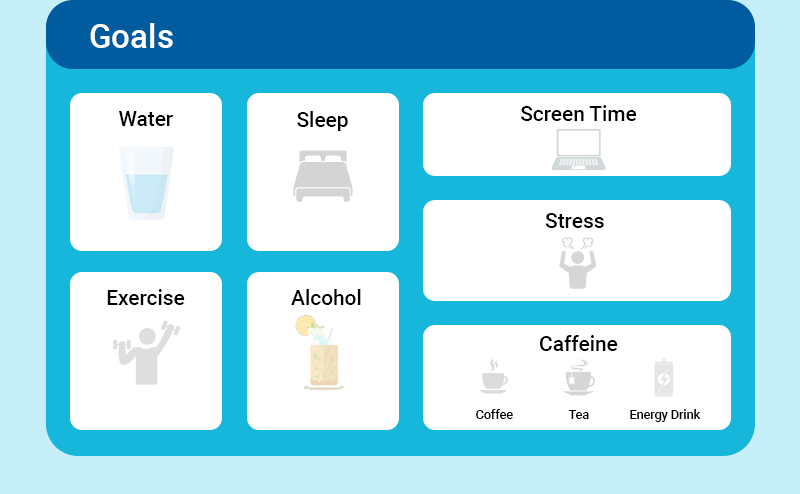
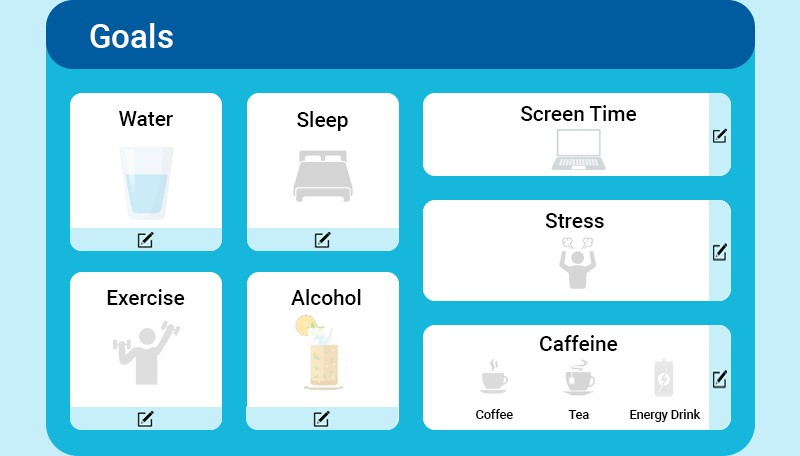
Added a button to goal page from the home page. Created goal editing pages for each factor. Added a button to suggestions page from the goal page.

diff --git a/src/sleepAppGUI/interaction/Page.java b/src/sleepAppGUI/interaction/Page.java
@@ -200,9 +200,15 @@ public class Page
         Page exercise_questions = new Page(19, main, new Color(0xC7EFF9));
         Page exercise_yes = new Page(20, main, new Color(0xC7EFF9));
         Page exercise_no = new Page(21, main, new Color(0xC7EFF9));
-        Page goal_page = new Page(22, main, new Color(0xC7EFF9));
-        Page water_goal = new Page(23, main, new Color(0xC7EFF9));
-        Page suggestions = new Page(24, main, new Color(0xC7EFF9));
+        Page suggestions = new Page(22, main, new Color(0xC7EFF9));
+        Page goal_page = new Page(23, main, new Color(0xC7EFF9));
+        Page water_goal = new Page(24, main, new Color(0xC7EFF9));
+        Page sleep_goal = new Page(25, main, new Color(0xC7EFF9));
+        Page exercise_goal = new Page(26, main, new Color(0xC7EFF9));
+        Page alcohol_goal = new Page(27, main, new Color(0xC7EFF9));
+        Page screen_goal = new Page(28, main, new Color(0xC7EFF9));
+        Page stress_goal = new Page(29, main, new Color(0xC7EFF9));
+        Page caffeine_goal = new Page(30, main, new Color(0xC7EFF9));
 
         Page water_graph = new Page(10, main, new Color(0xC7EFF9));
         Page exercise_graph = new Page(11, main, new Color(0xC7EFF9));
@@ -214,7 +220,7 @@ public class Page
         setUpDailySignIn(main, sign_in_page, home_page);
         setUpSignInPage(main, username_password_initial, more_info_page);
         setUpMoreInfoPage(main, more_info_page, home_page);
-        setUpHomePage(main, home_page, profile_page, sleep_questions, graph_visual);
+        setUpHomePage(main, home_page, profile_page, sleep_questions, graph_visual, goal_page);
         setUpProfilePage(main, profile_page, home_page, edit_profile_page, sign_in_page);
         setUpEditProfilePage(main, edit_profile_page, profile_page);
         setUpSleepQuestionsPage(main, sleep_questions, water_questions);
@@ -231,8 +237,14 @@ public class Page
         setUpExerciseYes(main, exercise_yes, exercise_no, home_page);
         setUpExerciseNo(main, exercise_no, exercise_yes, home_page);
         setUpGraphPage(main,graph_visual, home_page, more_info_page, water_graph, exercise_graph, caffeine_graph, alcohol_graph, screen_graph, stress_graph);
-        setUpGoalPage(main, goal_page, water_goal);
+        setUpGoalPage(main, goal_page, home_page, suggestions, water_goal, sleep_goal, exercise_goal, alcohol_goal, screen_goal, stress_goal, caffeine_goal);
         setUpEditWaterGoal(main, water_goal, goal_page);
+        setUpEditSleepGoal(main, sleep_goal, goal_page);
+        setUpEditExerciseGoal(main, exercise_goal, goal_page);
+        setUpEditAlcoholGoal(main, alcohol_goal, goal_page);
+        setUpEditScreenGoal(main, screen_goal, goal_page);
+        setUpEditStressGoal(main, stress_goal, goal_page);
+        setUpEditCaffeineGoal(main, caffeine_goal, goal_page);
         setupSuggestions(main, suggestions,  home_page);
 
         setUpWaterGraph(main,water_graph,graph_visual,home_page);
@@ -437,19 +449,30 @@ public class Page
         };
     }
 
-    public static void setUpHomePage(Main main, Page home_page, Page profilePage, Page sleep_questions, Page graph_visual) {
+    public static void setUpHomePage(Main main, Page home_page, Page profilePage, Page sleep_questions, Page graph_visual, Page goalPage) {
         MyImage inputFrame = new MyImage(home_page, new int[] {150, 130}, new int[] {650, 530}, "home_page_layout", true);
-
         MyImage logo = new MyImage(home_page, new int[] {260, 30}, new int[] {560, 108}, "logo", true);
+
+        // show male icon for men and female icon for women
         MyImage maleIcon = new MyImage(home_page, new int[] {550, 157}, new int[] {610, 217}, "male_icon", true);
+        MyImage femaleIcon = new MyImage(home_page, new int[] {550, 157}, new int[] {610, 217}, "female_icon", false);
+
+        // display username
         MyText username = new MyText(home_page, new int[] {270, 178}, new int[] {320, 198}, "Username");
 
         // buttons
-        MyButton dailyQuestions = new MyButton(home_page, "dailyQuestions", new int[]{165, 255}, new int[]{410, 520}, "questions"){
+        MyButton dailyQuestions = new MyButton(home_page, "dailyQuestions", new int[]{170, 260}, new int[]{404, 361}, "questions"){
             public void isClicked()
             {
                 main.setCurrentPage(sleep_questions);
                 System.out.println("Sleep questions");
+            }
+        };
+        MyButton goals = new MyButton(home_page, "goals", new int[]{170, 375}, new int[]{405, 515}, "goals"){
+            public void isClicked()
+            {
+                main.setCurrentPage(goalPage);
+                System.out.println("Goal Page");
             }
         };
         MyButton activity = new MyButton(home_page, "activity", new int[]{420, 260}, new int[]{634, 405}, "activity"){
@@ -1000,81 +1023,205 @@ public class Page
         };
     }
 
-    public static void setUpGoalPage(Main main, Page goal_page, Page nextPage) {
-        MyImage logo = new MyImage(goal_page, new int[] {70, 20}, new int[] {227, 70}, "logo", true);
-        MyImage layout = new MyImage(goal_page, new int[] {0, 76}, new int[] {800, 570}, "goal_layout", true);
+    public static void setUpGoalPage(Main main, Page goal_page, Page previousPage, Page suggestionsPage, Page waterPage, Page sleepPage, Page exercisePage, Page alcoholPage, Page screenPage, Page stressPage, Page caffeinePage) {
+        MyImage layout = new MyImage(goal_page, new int[] {0, 20}, new int[] {800, 476}, "goal_layout", true);
 
-        // buttons
-        MyButton EditWaterGoal = new MyButton(goal_page, "editWater", new int[]{70, 304}, new int[]{222, 327}, "edit_goal_1"){
+        // example of how to display goal
+        MyText goal_example = new MyText(goal_page, new int[] {110, 200}, new int[] {320, 230}, "5 / 10");
+
+        // buttons to edit goals
+        MyButton EditWaterGoal = new MyButton(goal_page, "editWater", new int[]{70, 248}, new int[]{222, 271}, "edit_goal_1"){
             public void isClicked()
             {
-                main.setCurrentPage(nextPage);
-                System.out.println("Clicked");
+                main.setCurrentPage(waterPage);
+                System.out.println("Edit Water Goal Page");
             }
         };
-        MyButton EditSleepGoal = new MyButton(goal_page, "editSleep", new int[]{247, 304}, new int[]{399, 327}, "edit_goal_1"){
+        MyButton EditSleepGoal = new MyButton(goal_page, "editSleep", new int[]{247, 248}, new int[]{399, 271}, "edit_goal_1"){
             public void isClicked()
             {
-                main.setCurrentPage(nextPage);
-                System.out.println("Clicked");
+                main.setCurrentPage(sleepPage);
+                System.out.println("Edit Sleep Goal Page");
             }
         };
-        MyButton EditExerciseGoal = new MyButton(goal_page, "editExercise", new int[]{70, 483}, new int[]{222, 506}, "edit_goal_1"){
+        MyButton EditExerciseGoal = new MyButton(goal_page, "editExercise", new int[]{70, 427}, new int[]{222, 450}, "edit_goal_1"){
             public void isClicked()
             {
-                main.setCurrentPage(nextPage);
-                System.out.println("Clicked");
+                main.setCurrentPage(exercisePage);
+                System.out.println("Edit Exercise Goal Page");
             }
         };
-        MyButton EditAlcoholGoal = new MyButton(goal_page, "editAlcohol", new int[]{247, 483}, new int[]{399, 506}, "edit_goal_1"){
+        MyButton EditAlcoholGoal = new MyButton(goal_page, "editAlcohol", new int[]{247, 427}, new int[]{399, 450}, "edit_goal_1"){
             public void isClicked()
             {
-                main.setCurrentPage(nextPage);
-                System.out.println("Clicked");
+                main.setCurrentPage(alcoholPage);
+                System.out.println("Edit Alcohol Goal Page");
             }
         };
-        MyButton EditScreenTimeGoal = new MyButton(goal_page, "editScreenTime", new int[]{709, 169}, new int[]{731, 252}, "edit_goal_2"){
+        MyButton EditScreenTimeGoal = new MyButton(goal_page, "editScreenTime", new int[]{709, 113}, new int[]{731, 196}, "edit_goal_2"){
             public void isClicked()
             {
-                main.setCurrentPage(nextPage);
-                System.out.println("Clicked");
+                main.setCurrentPage(screenPage);
+                System.out.println("Edit Screen Time Goal Page");
             }
         };
-        MyButton EditStressGoal = new MyButton(goal_page, "editStress", new int[]{709, 276}, new int[]{731, 377}, "edit_goal_2"){
+        MyButton EditStressGoal = new MyButton(goal_page, "editStress", new int[]{709, 220}, new int[]{731, 321}, "edit_goal_2"){
             public void isClicked()
             {
-                main.setCurrentPage(nextPage);
-                System.out.println("Clicked");
+                main.setCurrentPage(stressPage);
+                System.out.println("Edit Stress Goal Page");
             }
         };
-        MyButton EditCaffeineGoal = new MyButton(goal_page, "editCaffeine", new int[]{709, 401}, new int[]{731, 506}, "edit_goal_2"){
+        MyButton EditCaffeineGoal = new MyButton(goal_page, "editCaffeine", new int[]{709, 345}, new int[]{731, 450}, "edit_goal_2"){
             public void isClicked()
             {
-                main.setCurrentPage(nextPage);
-                System.out.println("Clicked");
+                main.setCurrentPage(caffeinePage);
+                System.out.println("Edit Caffeine Goal Page");
+            }
+        };
+        MyButton backButton = new MyButton(goal_page, "back", new int[] {100, 490}, new int[] {190, 520}, "back_button") {
+            public void isClicked()
+            {
+                main.setCurrentPage(previousPage);
+                System.out.println("Home Page");
+            }
+        };
+        MyButton suggestionsButton = new MyButton(goal_page, "suggestions", new int[] {520, 490}, new int[] {662, 520}, "suggestions_button") {
+            public void isClicked()
+            {
+                main.setCurrentPage(suggestionsPage);
+                System.out.println("Suggestions Page");
             }
         };
     }
 
-    public static void setUpEditWaterGoal(Main main, Page water_goal, Page nextPage) {
-        MyImage logo = new MyImage(water_goal, new int[]{70, 20}, new int[]{227, 70}, "logo", true);
-        MyImage layout = new MyImage(water_goal, new int[]{0, 76}, new int[]{800, 534}, "edit_water_goal", true);
-        MyTextField input = new MyTextField(main, water_goal, new int[]{375, 280}, new int[]{425, 330});
+    public static void setUpEditWaterGoal(Main main, Page water_goal, Page goalPage) {
+        MyImage layout = new MyImage(water_goal, new int[]{0, 10}, new int[]{800, 519}, "water_goal", true);
+        MyTextField input = new MyTextField(main, water_goal, new int[]{375, 170}, new int[]{425, 210});
 
-        MyButton backButton = new MyButton(water_goal, "back", new int[]{295, 515}, new int[]{380, 540}, "back_button") {
+        MyButton backButton = new MyButton(water_goal, "back", new int[]{240, 525}, new int[]{330, 555}, "back_button") {
             public void isClicked() {
-                main.setCurrentPage(nextPage);
-                System.out.println("Main Menu Page");
+                main.setCurrentPage(goalPage);
+                System.out.println("Goal Page");
             }
         };
-        MyButton saveButton = new MyButton(water_goal, "save", new int[]{435, 515}, new int[]{505, 540}, "save_button") {
+        MyButton saveButton = new MyButton(water_goal, "save", new int[]{470, 525}, new int[]{540, 555}, "save_button") {
             public void isClicked() {
-                main.setCurrentPage(nextPage);
+                main.setCurrentPage(goalPage);
                 System.out.println("Saved");
             }
         };
     }
 
+    public static void setUpEditSleepGoal(Main main, Page sleep_goal, Page goalPage) {
+        MyImage layout = new MyImage(sleep_goal, new int[]{0, 10}, new int[]{800, 519}, "sleep_goal", true);
+        MyTextField input = new MyTextField(main, sleep_goal, new int[]{375, 170}, new int[]{425, 210});
+
+        MyButton backButton = new MyButton(sleep_goal, "back", new int[]{240, 525}, new int[]{330, 555}, "back_button") {
+            public void isClicked() {
+                main.setCurrentPage(goalPage);
+                System.out.println("Goal Page");
+            }
+        };
+        MyButton saveButton = new MyButton(sleep_goal, "save", new int[]{470, 525}, new int[]{540, 555}, "save_button") {
+            public void isClicked() {
+                main.setCurrentPage(goalPage);
+                System.out.println("Saved");
+            }
+        };
+    }
+
+    public static void setUpEditExerciseGoal(Main main, Page exercise_goal, Page goalPage) {
+        MyImage layout = new MyImage(exercise_goal, new int[]{0, 10}, new int[]{800, 519}, "exercise_goal", true);
+        MyTextField input = new MyTextField(main, exercise_goal, new int[]{375, 170}, new int[]{425, 210});
+
+        MyButton backButton = new MyButton(exercise_goal, "back", new int[]{240, 525}, new int[]{330, 555}, "back_button") {
+            public void isClicked() {
+                main.setCurrentPage(goalPage);
+                System.out.println("Goal Page");
+            }
+        };
+        MyButton saveButton = new MyButton(exercise_goal, "save", new int[]{470, 525}, new int[]{540, 555}, "save_button") {
+            public void isClicked() {
+                main.setCurrentPage(goalPage);
+                System.out.println("Saved");
+            }
+        };
+    }
+
+    public static void setUpEditAlcoholGoal(Main main, Page alcohol_goal, Page goalPage) {
+        MyImage layout = new MyImage(alcohol_goal, new int[]{0, 10}, new int[]{800, 519}, "alcohol_goal", true);
+        MyTextField input = new MyTextField(main, alcohol_goal, new int[]{375, 170}, new int[]{425, 210});
+
+        MyButton backButton = new MyButton(alcohol_goal, "back", new int[]{240, 525}, new int[]{330, 555}, "back_button") {
+            public void isClicked() {
+                main.setCurrentPage(goalPage);
+                System.out.println("Goal Page");
+            }
+        };
+        MyButton saveButton = new MyButton(alcohol_goal, "save", new int[]{470, 525}, new int[]{540, 555}, "save_button") {
+            public void isClicked() {
+                main.setCurrentPage(goalPage);
+                System.out.println("Saved");
+            }
+        };
+    }
+
+    public static void setUpEditScreenGoal(Main main, Page screen_goal, Page goalPage) {
+        MyImage layout = new MyImage(screen_goal, new int[]{0, 10}, new int[]{800, 519}, "screen_goal", true);
+        MyTextField input = new MyTextField(main, screen_goal, new int[]{375, 170}, new int[]{425, 210});
+
+        MyButton backButton = new MyButton(screen_goal, "back", new int[]{240, 525}, new int[]{330, 555}, "back_button") {
+            public void isClicked() {
+                main.setCurrentPage(goalPage);
+                System.out.println("Goal Page");
+            }
+        };
+        MyButton saveButton = new MyButton(screen_goal, "save", new int[]{470, 525}, new int[]{540, 555}, "save_button") {
+            public void isClicked() {
+                main.setCurrentPage(goalPage);
+                System.out.println("Saved");
+            }
+        };
+    }
+
+    public static void setUpEditStressGoal(Main main, Page stress_goal, Page goalPage) {
+        MyImage layout = new MyImage(stress_goal, new int[]{0, 10}, new int[]{800, 519}, "stress_goal", true);
+        MyTextField input = new MyTextField(main, stress_goal, new int[]{475, 170}, new int[]{525, 210});
+
+        MyButton backButton = new MyButton(stress_goal, "back", new int[]{240, 525}, new int[]{330, 555}, "back_button") {
+            public void isClicked() {
+                main.setCurrentPage(goalPage);
+                System.out.println("Goal Page");
+            }
+        };
+        MyButton saveButton = new MyButton(stress_goal, "save", new int[]{470, 525}, new int[]{540, 555}, "save_button") {
+            public void isClicked() {
+                main.setCurrentPage(goalPage);
+                System.out.println("Saved");
+            }
+        };
+    }
+
+    public static void setUpEditCaffeineGoal(Main main, Page caffeine_goal, Page goalPage) {
+        MyImage layout = new MyImage(caffeine_goal, new int[]{0, 10}, new int[]{800, 519}, "caffeine_goal", true);
+        MyTextField coffeeInput = new MyTextField(main, caffeine_goal, new int[]{265, 170}, new int[]{315, 210});
+        MyTextField teaInput = new MyTextField(main, caffeine_goal, new int[]{385, 170}, new int[]{435, 210});
+        MyTextField energyDrinkInput = new MyTextField(main, caffeine_goal, new int[]{645, 170}, new int[]{695, 210});
+
+        MyButton backButton = new MyButton(caffeine_goal, "back", new int[]{240, 525}, new int[]{330, 555}, "back_button") {
+            public void isClicked() {
+                main.setCurrentPage(goalPage);
+                System.out.println("Goal Page");
+            }
+        };
+        MyButton saveButton = new MyButton(caffeine_goal, "save", new int[]{470, 525}, new int[]{540, 555}, "save_button") {
+            public void isClicked() {
+                main.setCurrentPage(goalPage);
+                System.out.println("Saved");
+            }
+        };
+    }
 
     private static void setupSuggestions(Main main, Page suggestions, Page home_page) {
         MyText title = new MyText(suggestions, new int[] {270, 110}, new int[] {180, 160}, "Suggestions");
